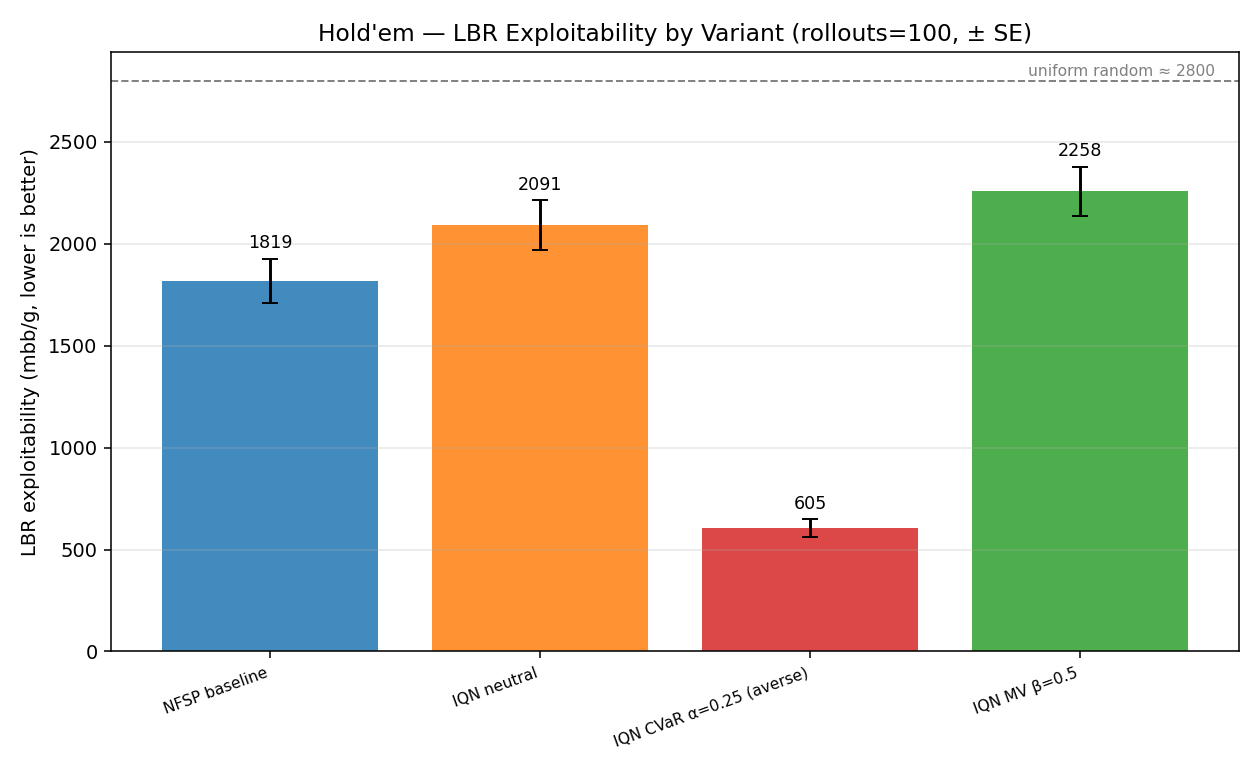
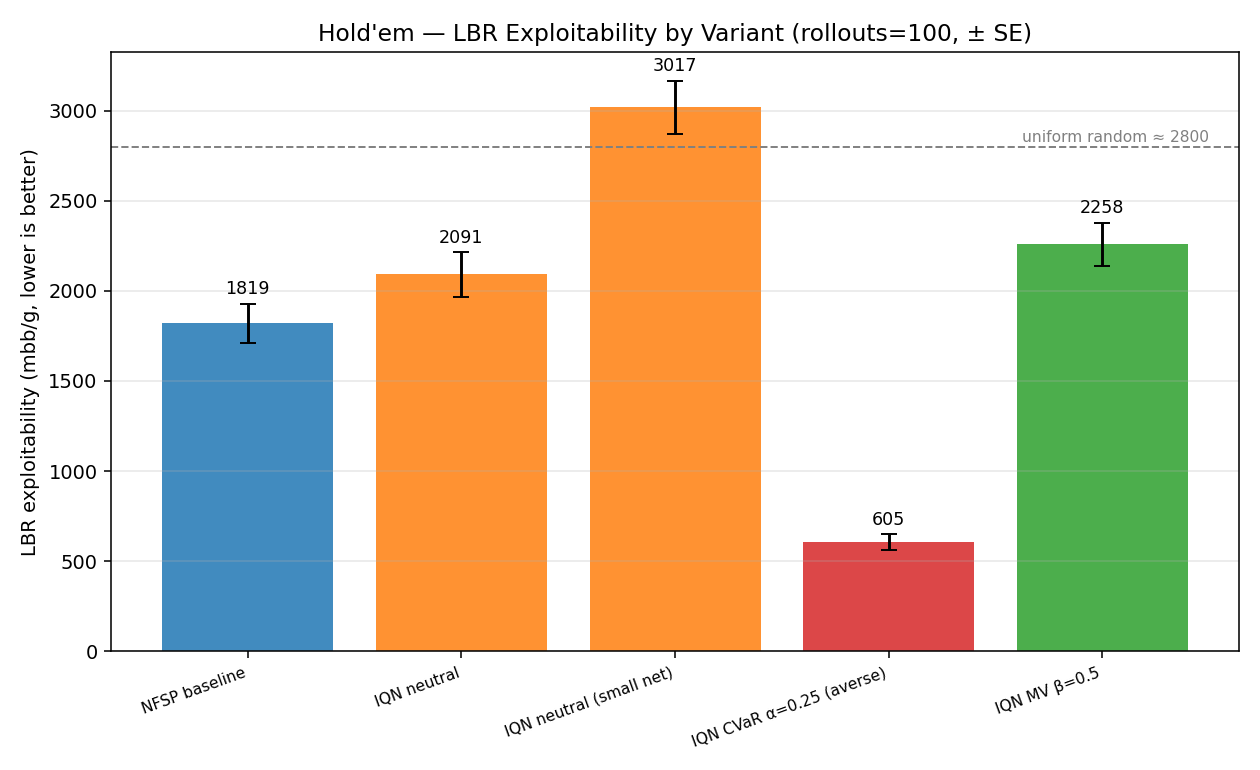
Add iqn_smaller LBR r=100 (3017 mbb/g) to plots + report

diff --git a/cpp-implementation/scripts/make_plots.py b/cpp-implementation/scripts/make_plots.py
@@ -235,7 +235,7 @@ HOLDEM_RUNS = [
 HOLDEM_LBR = {
     'holdem_small_long':  (1819, 109),  # 40M, r=100
     'holdem_iqn_long':    (2091, 123),  # 20M (archive), r=100
-    # 'holdem_iqn_smaller': (pending r=100),
+    'holdem_iqn_smaller': (3017, 148),  # 20M, r=100
     'holdem_iqn_averse':  (605,  44),   # r=100; CAVEAT: P1 negative (still), see report
     'holdem_iqn_meanvar': (2258, 121),  # r=100
     # holdem_iqn_seeking: training in progress

diff --git a/REPORT.md b/REPORT.md
@@ -127,7 +127,7 @@ Different from Leduc because the game and state space are much bigger:
 |---|---|---|---|---|---|
 | `holdem_small_long` | [256,128,256,128] | risk-neutral NFSP | **1819 ± 109** | 1400 ± 59 | **40M** |
 | `holdem_iqn_long` (archive) | [256,128,256,128] | IQN risk-neutral | 2091 ± 123 | 1993 ± 68 | 20M* |
-| `holdem_iqn_smaller` | [128, 64, 128, 64] | IQN risk-neutral | *pending* | 2409 ± 78 | 20M |
+| `holdem_iqn_smaller` | [128, 64, 128, 64] | IQN risk-neutral | 3017 ± 148 | 2409 ± 78 | 20M |
 | `holdem_iqn_meanvar` | [256,128,256,128] | IQN MV β=0.5 | 2258 ± 121 | 1994 ± 67 | 20M |
 | **`holdem_iqn_averse`** | [256,128,256,128] | **IQN CVaR α=0.25** | **605 ± 44** ⚠ | 482 ± 22 | **20M** |
 | `holdem_iqn_seeking` | [256,128,256,128] | IQN CVaR seeking | *pending* | — | 20M |
@@ -192,6 +192,7 @@ Going from rollouts=15 to rollouts=100, every Hold'em LBR number moved **up** (m
 |---|---|---|---|
 | baseline (40M) | 1400 | 1819 | +30% |
 | iqn_neutral (20M) | 1993 | 2091 | +5% |
+| iqn_smaller (20M) | 2409 | 3017 | +25% |
 | iqn_meanvar | 1994 | 2258 | +13% |
 | iqn_averse | 482 | 605 | +26% |
 
